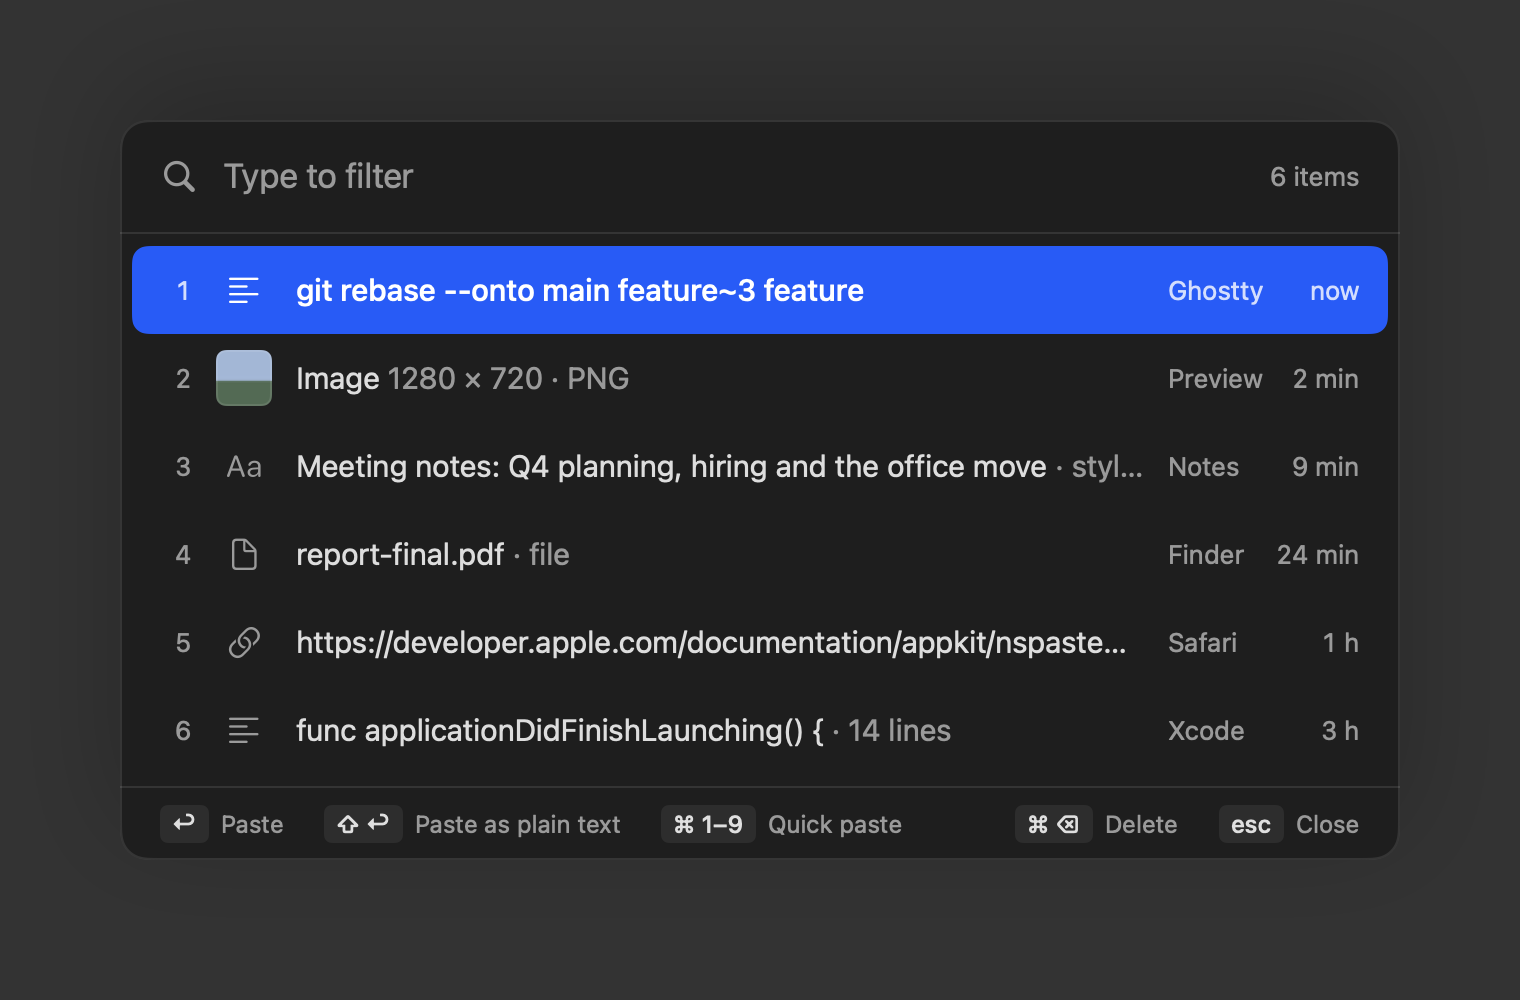
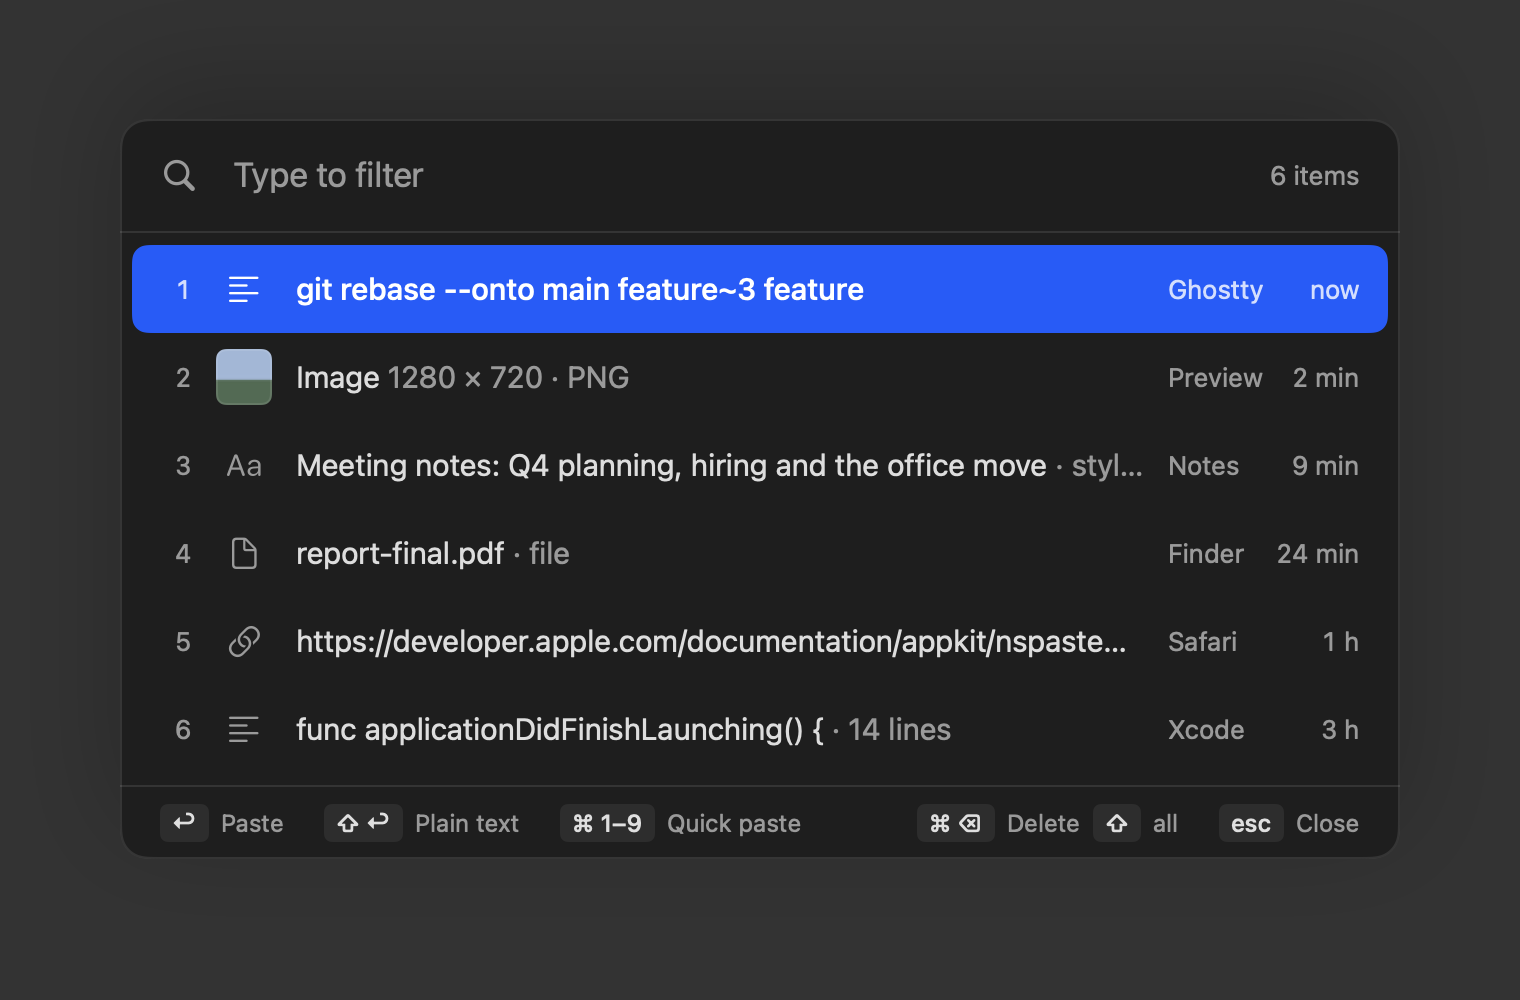
README: current panel screenshots, and how to make them
The screenshots were from before the footer hints changed to
'Plain text' and 'Delete, Shift all'. Render them again from the
sample items, at the same 1520 x 1000 size.

The snapshot is now as tall as a panel of nine rows, so the README
gives the crop that cuts the empty space under the six sample rows,
and the command for the light image as well as the dark one. The
crop starts one pixel down because sips takes an offset of 0 as
none and crops from the middle.

Also say in the README that the history is encrypted on disk, that
a cleared history is kept for 24 hours, and that Shift+click pastes
as plain text with Mouse on.

diff --git a/README.md b/README.md
@@ -17,10 +17,12 @@ copied and lets you paste any of them easily from the keyboard.</p>
 ## What it does
 
 - Records anything you copy regardless of content type: text, styled text, images, files
-- Keeps the last 50 items by default, across restarts
+- Keeps the last 50 items by default, across restarts, encrypted on
+  disk
 - Never records what a password manager marks as concealed, nor
   anything over 20 MB
 - Pastes an item as it was copied, or as plain text
+- Keeps a cleared history for 24 hours, so a clear can be undone
 - Follows the system light or dark appearance
 - Lives in the menu bar and starts at login
 
@@ -78,7 +80,8 @@ The menu bar icon has:
 - **Reset Panel Position**: put the panel back in the middle.
 - **Settings…**: history size (5 to 500 items), the shortcut, start at
   login, and three panel options, all off by default: **Mouse** (point
-  at a row to select it, click to paste), **Position** (open next to
+  at a row to select it, click to paste, Shift+click to paste as plain
+  text), **Position** (open next to
   the text field being typed in, or else the pointer) and **Images**
   (enlarge the selected image beside the panel). After a clear,
   **Cleared history** offers Restore and Delete.
@@ -211,10 +214,21 @@ iconutil -c icns build/AppIcon.iconset -o Resources/AppIcon.icns
 ```
 
 The screenshots above are rendered by the app from sample items, so
-they contain no real clipboard content:
+they contain no real clipboard content. After `swift build`:
+
+```bash
+.build/debug/Klippari --snapshot docs/images/panel-light.png
+```
 
 ```bash
 .build/debug/Klippari --snapshot docs/images/panel-dark.png dark
+```
+
+The image is as tall as a panel of nine rows. Cut the empty space
+under the six sample rows:
+
+```bash
+sips -c 1000 1520 --cropOffset 1 0 docs/images/panel-light.png docs/images/panel-dark.png
 ```
 
 ## Layout
